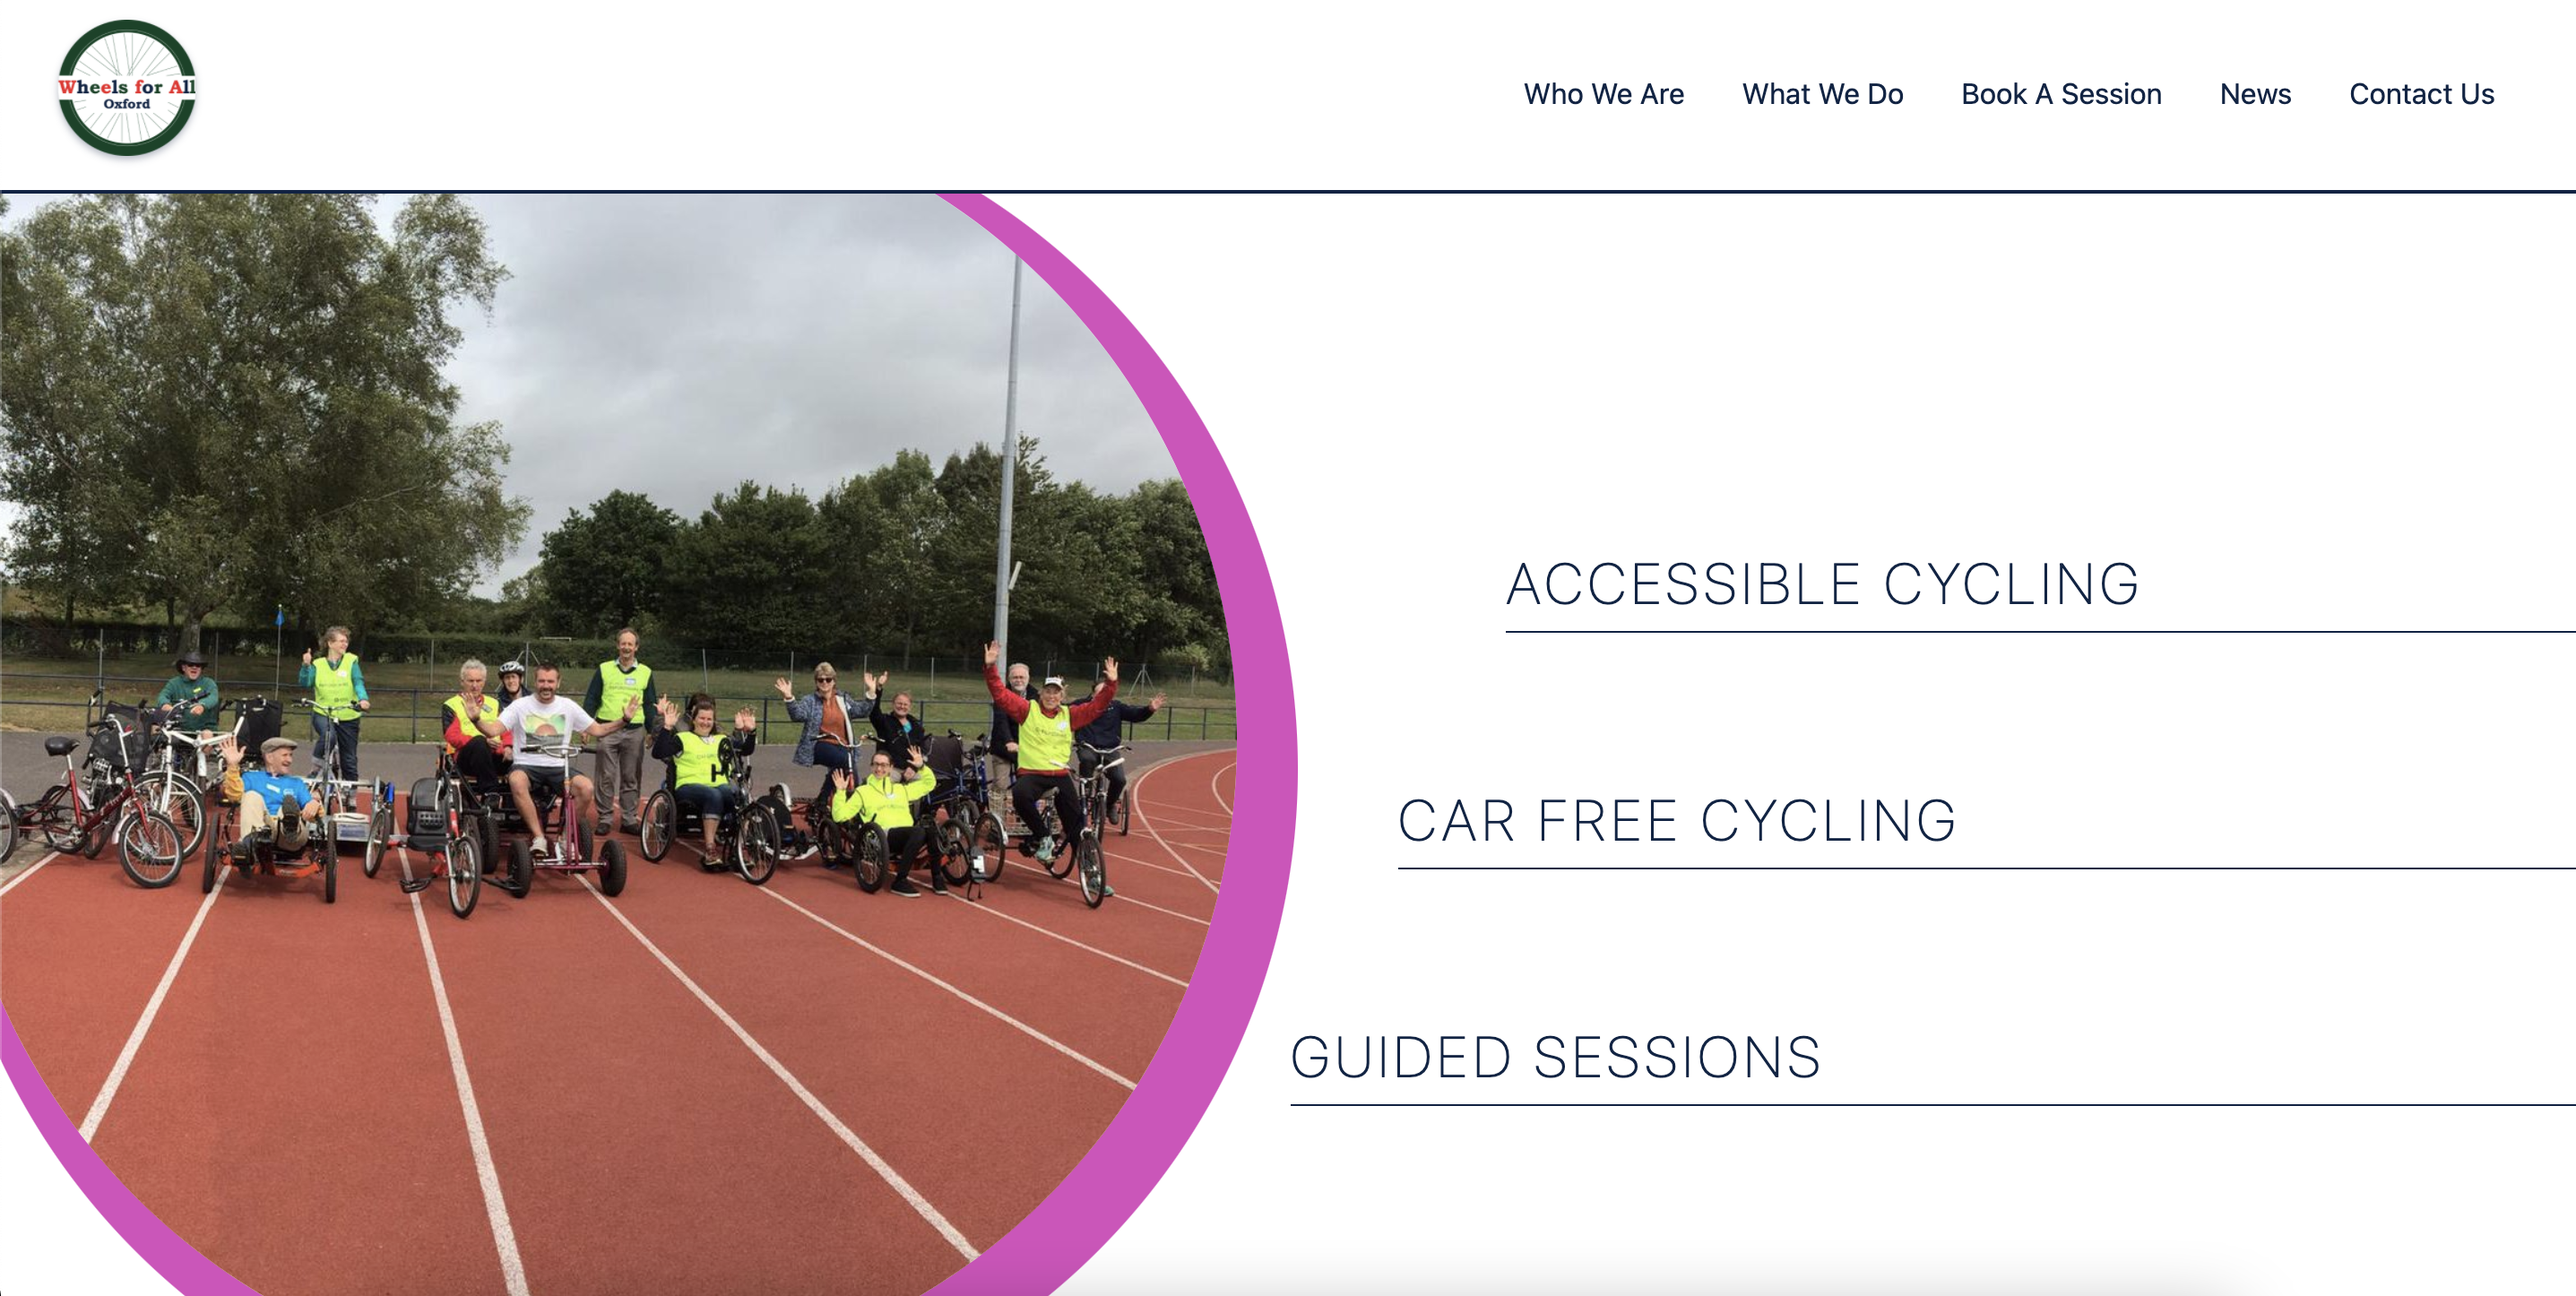
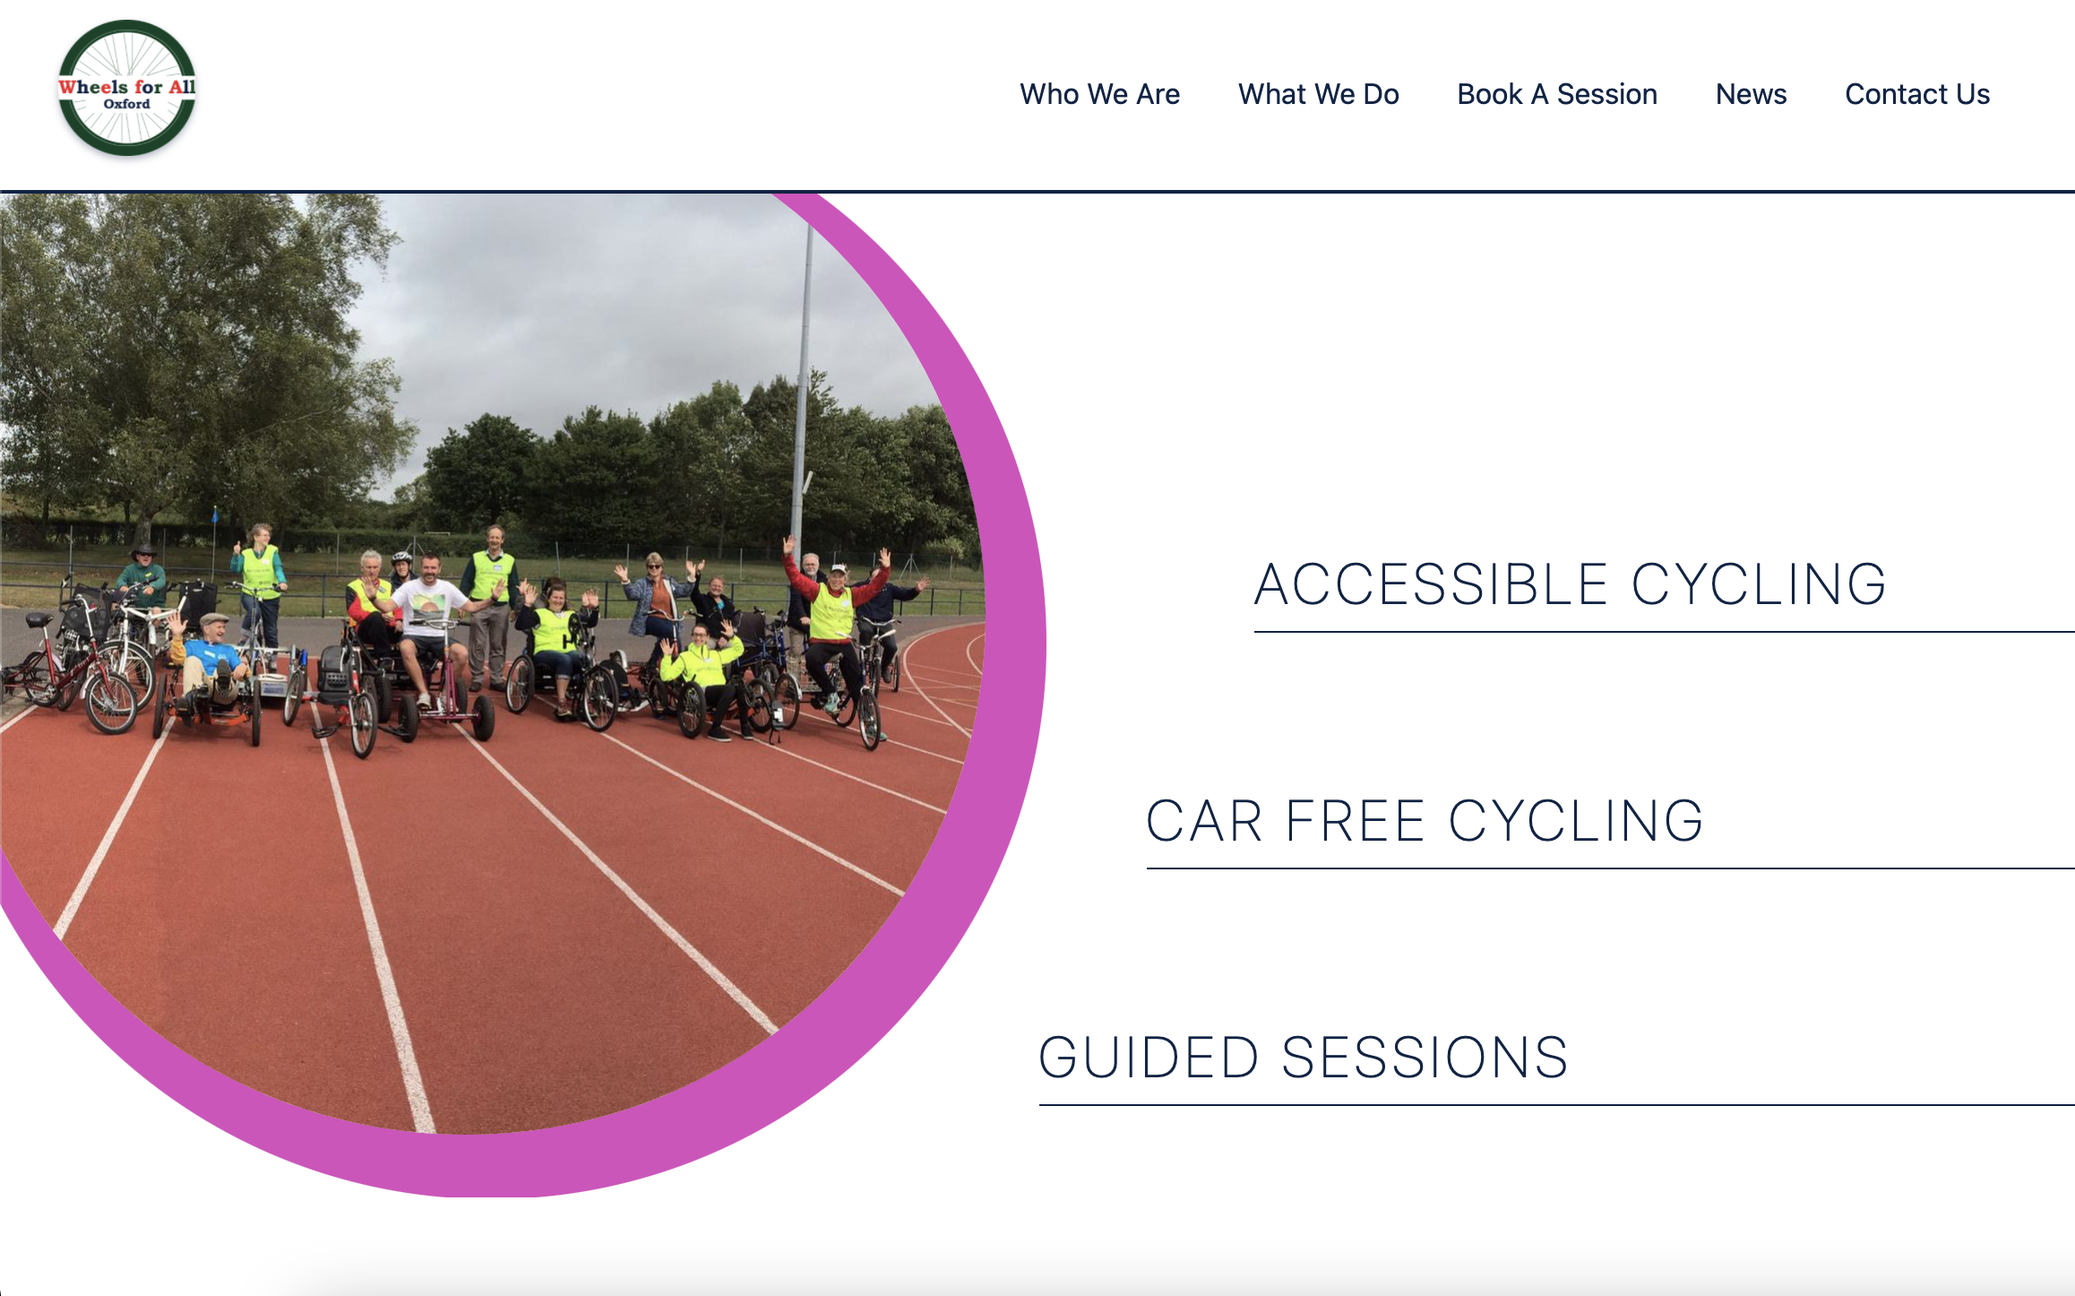
softer ani

diff --git a/sass/base/structure/_structure.sass b/sass/base/structure/_structure.sass
@@ -91,11 +91,6 @@
     filter: grayscale(1) brightness(1.2)
 
 
-
-
-
-
-
   .wbk-outer-container
     // stop the booking from from filling out
     max-width: 600px
@@ -223,7 +218,7 @@
   margin: 0
 
 .sw_page-header
-  background-color: rgba($royal-blue, .6)
+  background-color: rgba($royal-blue, .9)
   width: 100vw
   height: $hero-height
   position: absolute
@@ -266,7 +261,7 @@
   //flex-wrap: wrap
   width: 95vw
   margin: 5vh auto
-  max-width: 800px
+  max-width: 1200px
 
 .sw_entry_content-page,
 .sw_entry_footer,
@@ -412,3 +407,21 @@
     max-width: 800px
     margin: 0 auto
     padding: 5rem 0
+
+.wbk-slot-button
+  border-radius: 6px!important
+  color: $royal-blue!important
+  background-color: lighten($royal-blue, 90)!important
+  border: 1px solid $royal-blue!important
+
+.wbk-slot-active-button
+  border-radius: 6px!important
+  color: $royal-blue!important
+  background-color: lighten($royal-blue, 60)!important
+  border: 3px solid $royal-blue!important
+
+.wbk_to_checkout
+  border-radius: 6px!important
+  color: $royal-blue!important
+  background-color: lighten($red, 40)!important
+  border: 1px solid $red!important

diff --git a/sass/abstracts/mixins/_mixins.sass b/sass/abstracts/mixins/_mixins.sass
@@ -4,29 +4,29 @@
 	margin-left: auto
 	margin-right: auto
 
-
 // Column width with margin
 @mixin column-width($numberColumns: 3)
 	width: map-get($columns, $numberColumns) - ( ( $columns__margin * ( $numberColumns - 1 ) ) / $numberColumns )
 
+//--------------------------------------------------------------
+//  Animations
+//--------------------------------------------------------------
+
 @mixin default-trans
 	transition: all .8s ease-in-out
-
 
 @mixin default-link-trans
 	transition: all .2s ease-in-out
 
-
 @mixin ani_zoom_in
 	@keyframes ani_zoom_in
 		0%
-			transform: scale(0.5) translateX(0)
+			transform: scale(0.9) translateX(0)
 			opacity: 0
 
 		100%
 			transform: scale(1) translateX(0)
 			opacity: 1
-
 
 @mixin ani_zoom_out
 	@keyframes ani_zoom_out
@@ -38,6 +38,10 @@
 			//transform: scale(0) translateX(0)
 			opacity: 0
 
+
+//--------------------------------------------------------------
+//  Shadows
+//--------------------------------------------------------------
 
 @mixin hero_img_shadow( $color )
 	box-shadow: 14px 16px 0 20px rgba($color , 1)

diff --git a/sass/components/content/_posts-and-pages.sass b/sass/components/content/_posts-and-pages.sass
@@ -75,7 +75,7 @@
 		animation-fill-mode: forwards
 
 	.visible
-		animation: 1.2s cubic-bezier(.67,.55,.44,1.16) ani_zoom_in
+		animation: .8s cubic-bezier(.67,.55,.44,1.16) ani_zoom_in
 		animation-fill-mode: forwards
 
 	.hidden
@@ -99,11 +99,12 @@
 
 	.hero__para
 		position: absolute
-		right: 0
+		left: 0
 		bottom: 0
 		color: $royal-blue
 		z-index: -1
 		margin: 0
+		font-size: 1.2rem
 
 	h1
 		margin: 0
@@ -128,7 +129,7 @@
 
 		h1
 			text-transform: uppercase
-			font-weight: 200
+			//font-weight: 200
 			letter-spacing: 3px
 
 		& ~ .hero__para
@@ -138,6 +139,7 @@
 	.title_2,
 	.title_3
 		border-bottom: solid 1px rgba($royal-blue, 1)
+		visibility: visible
 
 /* Hero titles on hover, image swaps are done with img_swapper.js --------------------------------------------- */
 
@@ -147,6 +149,7 @@
 	.title_3
 		//transform: translateX(100%)
 		opacity: 0
+		visibility: hidden
 
 
 /* Contact page elements --------------------------------------------- */

diff --git a/sass/abstracts/variables/_typography.sass b/sass/abstracts/variables/_typography.sass
@@ -1,5 +1,6 @@
 // stylelint-disable value-keyword-case
 $font__main: -apple-system, BlinkMacSystemFont, "Segoe UI", Roboto, Oxygen-Sans, Ubuntu, Cantarell, "Helvetica Neue", sans-serif
+$font__headers: "Quicksand",sans-serif
 // stylelint-enable value-keyword-case
 $font__code: monaco, consolas, "Andale Mono", "DejaVu Sans Mono", monospace
 $font__pre: "Courier 10 Pitch", courier, monospace

diff --git a/sass/base/typography/_headings.scss b/sass/base/typography/_headings.scss
@@ -5,4 +5,7 @@ h4,
 h5,
 h6 {
 	clear: both;
+	font-family: $font__headers;
+	font-weight: 400;
+	color: $royal-blue;
 }
